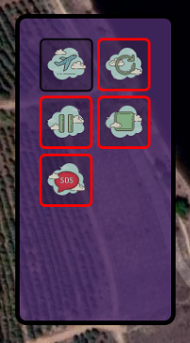
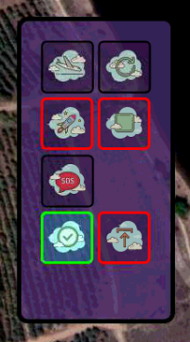
Add Help for AutoControl

Changed region(s): [[0.0, 0.0, 1.0, 1.0], [0.2895, 0.9942, 0.3947, 1.0], [0.9737, 0.6725, 1.0, 0.7602]]

diff --git a/src/com/javigation/GUI/TutorialPanel.java b/src/com/javigation/GUI/TutorialPanel.java
@@ -49,7 +49,7 @@ class ControlPanelTutorial extends JPanel{
     JPanel firstPanel;
     JPanel secondPanel;
     JPanel selectedPanel;
-    BufferedImage ascend,descend,land,missionAbort,missionPause,missionResume,missionStart,pitchDown,pitchUp,rollLeft,rollRight,rtl,takeOff,yawCcw,yawCw;
+    BufferedImage ascend,descend,land,missionAbort,missionPause,missionResume,missionStart,pitchDown,pitchUp,rollLeft,rollRight,rtl,takeOff,yawCcw,yawCw,hold,missionPlanDone,uploadMission,planMission;
 
     public ControlPanelTutorial(){
         change = new JButton();
@@ -80,7 +80,10 @@ class ControlPanelTutorial extends JPanel{
             rtl = ImageIO.read( new File(GUIManager.class.getClassLoader().getResource("images/controlPanel/rtl.png").getPath()));
             land = ImageIO.read( new File(GUIManager.class.getClassLoader().getResource("images/controlPanel/land.png").getPath()));
             takeOff = ImageIO.read( new File(GUIManager.class.getClassLoader().getResource("images/controlPanel/takeOff.png").getPath()));
-
+            hold = ImageIO.read( new File(GUIManager.class.getClassLoader().getResource("images/controlPanel/hold.png").getPath()));
+            missionPlanDone = ImageIO.read( new File(GUIManager.class.getClassLoader().getResource("images/controlPanel/mission_plan_done.png").getPath()));
+            planMission = ImageIO.read( new File(GUIManager.class.getClassLoader().getResource("images/controlPanel/plan_mission.png").getPath()));
+            uploadMission = ImageIO.read( new File(GUIManager.class.getClassLoader().getResource("images/controlPanel/upload_mission.png").getPath()));
 
         } catch (IOException e){
             System.out.println("Could not find the image");
@@ -144,33 +147,53 @@ class ControlPanelTutorial extends JPanel{
             change.setText("Next");
         }
         if( selectedPanel==secondPanel) {
-            g.drawImage(autoPilotControl1, 310, 115, null);
-            g.drawImage(autoPilotControl2,500,115,null);
+            g.drawImage(autoPilotControl1, 310, 95, null);//-20
+            g.drawImage(autoPilotControl2,500,95,null);
             g.setFont(new Font( "Tahoma", Font.BOLD, 20 ));
             g.setColor(Color.WHITE);
             g.drawString("Auto Control Panel",410,80);
             g.setFont(new Font( "Tahoma", Font.BOLD, 13 ));
-            g.drawString("Red bordered buttons indicates the unavailable functions.",500-190+5,115+343+25);
+            g.drawString("Red bordered buttons indicates the unavailable functions.",315,115+343+25);
+            g.drawString("Green bordered buttons indicates the functions currently in use.",300,120+343);
             g.setFont(new Font( "Tahoma", Font.BOLD, 16 ));
 
             g.drawImage(takeOff,180,70,null);
             g.drawImage(land,230,70,null);
             g.drawString("Take-off & Land",45,100);
             g.drawLine(350,155,200,110);
-            g.drawLine(540,155,250,110);
+            //g.drawLine(540,155,250,110);
 
             g.drawImage(rtl,730,70,null);
             g.drawString("Return to Launch",790,100);
-            g.drawLine(620,152,750,110);
+            g.drawLine(655,155,750,110);
 
-            g.drawImage(missionPause,180,115+343/2-20,null);
-            g.drawImage(missionResume,230,115+343/2-20,null);
+            g.drawImage(missionStart,230,(266+70)/2,null);
+            g.drawString("Start The Mission",85,(296+100)/2);
+            g.drawLine(350,110+(266+70)/2-60,250,110+(266+70)/2-70);
+
+            g.drawImage(missionPause,180,266,null);
+            g.drawImage(missionResume,230,266,null);
             g.drawString("Pause & Resume",45,286);
             g.drawString("The Mission",60,306);
-            g.drawLine(350,235,);
 
-            g.drawImage(missionAbort,730,115+343/2-20,null);
-            g.drawString("Abort The Mission",790,115+343/2+10);
+            g.drawImage(missionAbort,230,266+(266-((266+70)/2)),null);
+            g.drawString("Abort The Mission",85,296+(296-(296+100)/2));
+            g.drawLine(255,373,435,243);
+
+            g.drawImage(uploadMission,730,266,null);
+            g.drawString("Upload a Mission",790,296);
+            g.drawLine(650,330,740,300);
+
+            g.drawImage(hold,730 ,(266+70)/2,null);
+            g.drawLine(593,270,740,200);
+            g.drawString("Hold The Drone",790,(110+296)/2);
+
+            g.drawImage(missionPlanDone,730,266+(266-((266+70)/2)),null);
+            g.drawImage(planMission,780,266+(266-((266+70)/2)),null);
+            g.drawLine(565,360,740,385);
+            g.drawString("Plan & Confirm",840,385);
+            g.drawString("The Mission",855,405);
+
 
 
             //g.drawLine(80,80,340,145);
